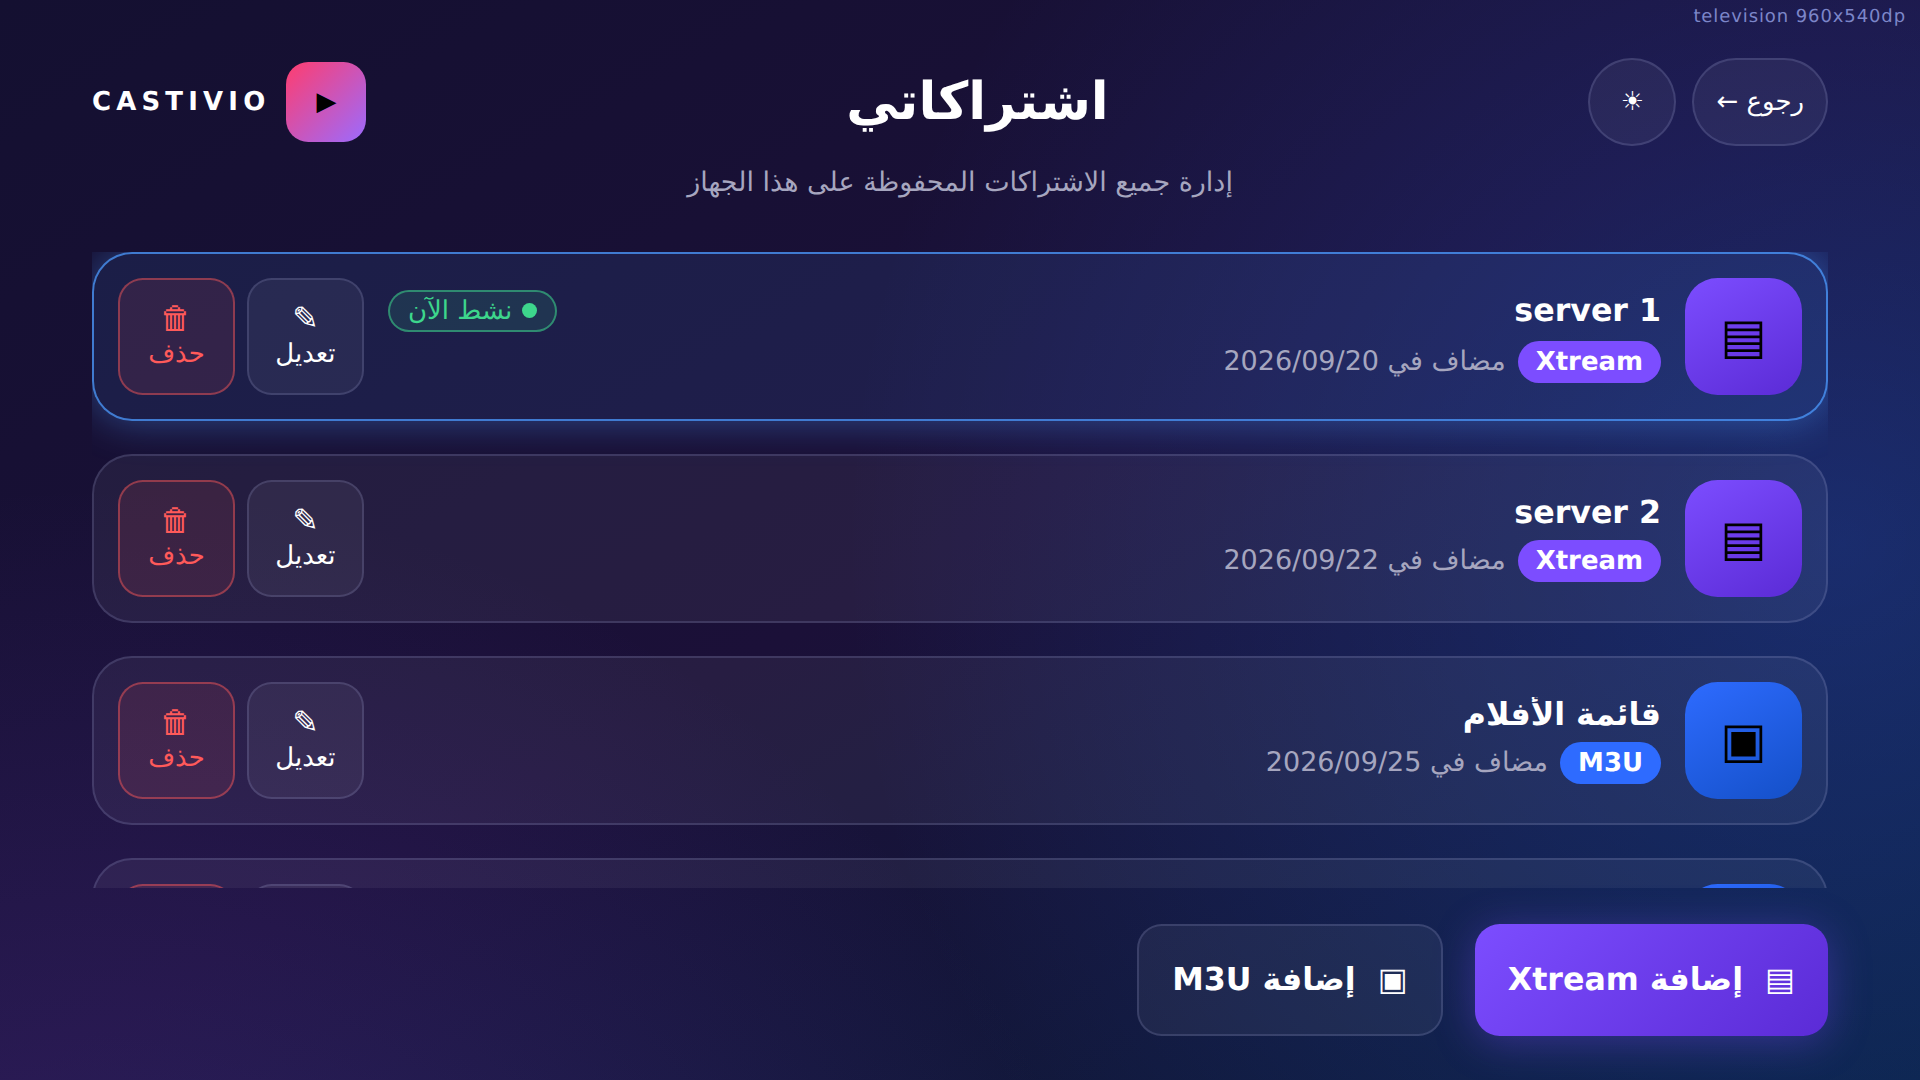
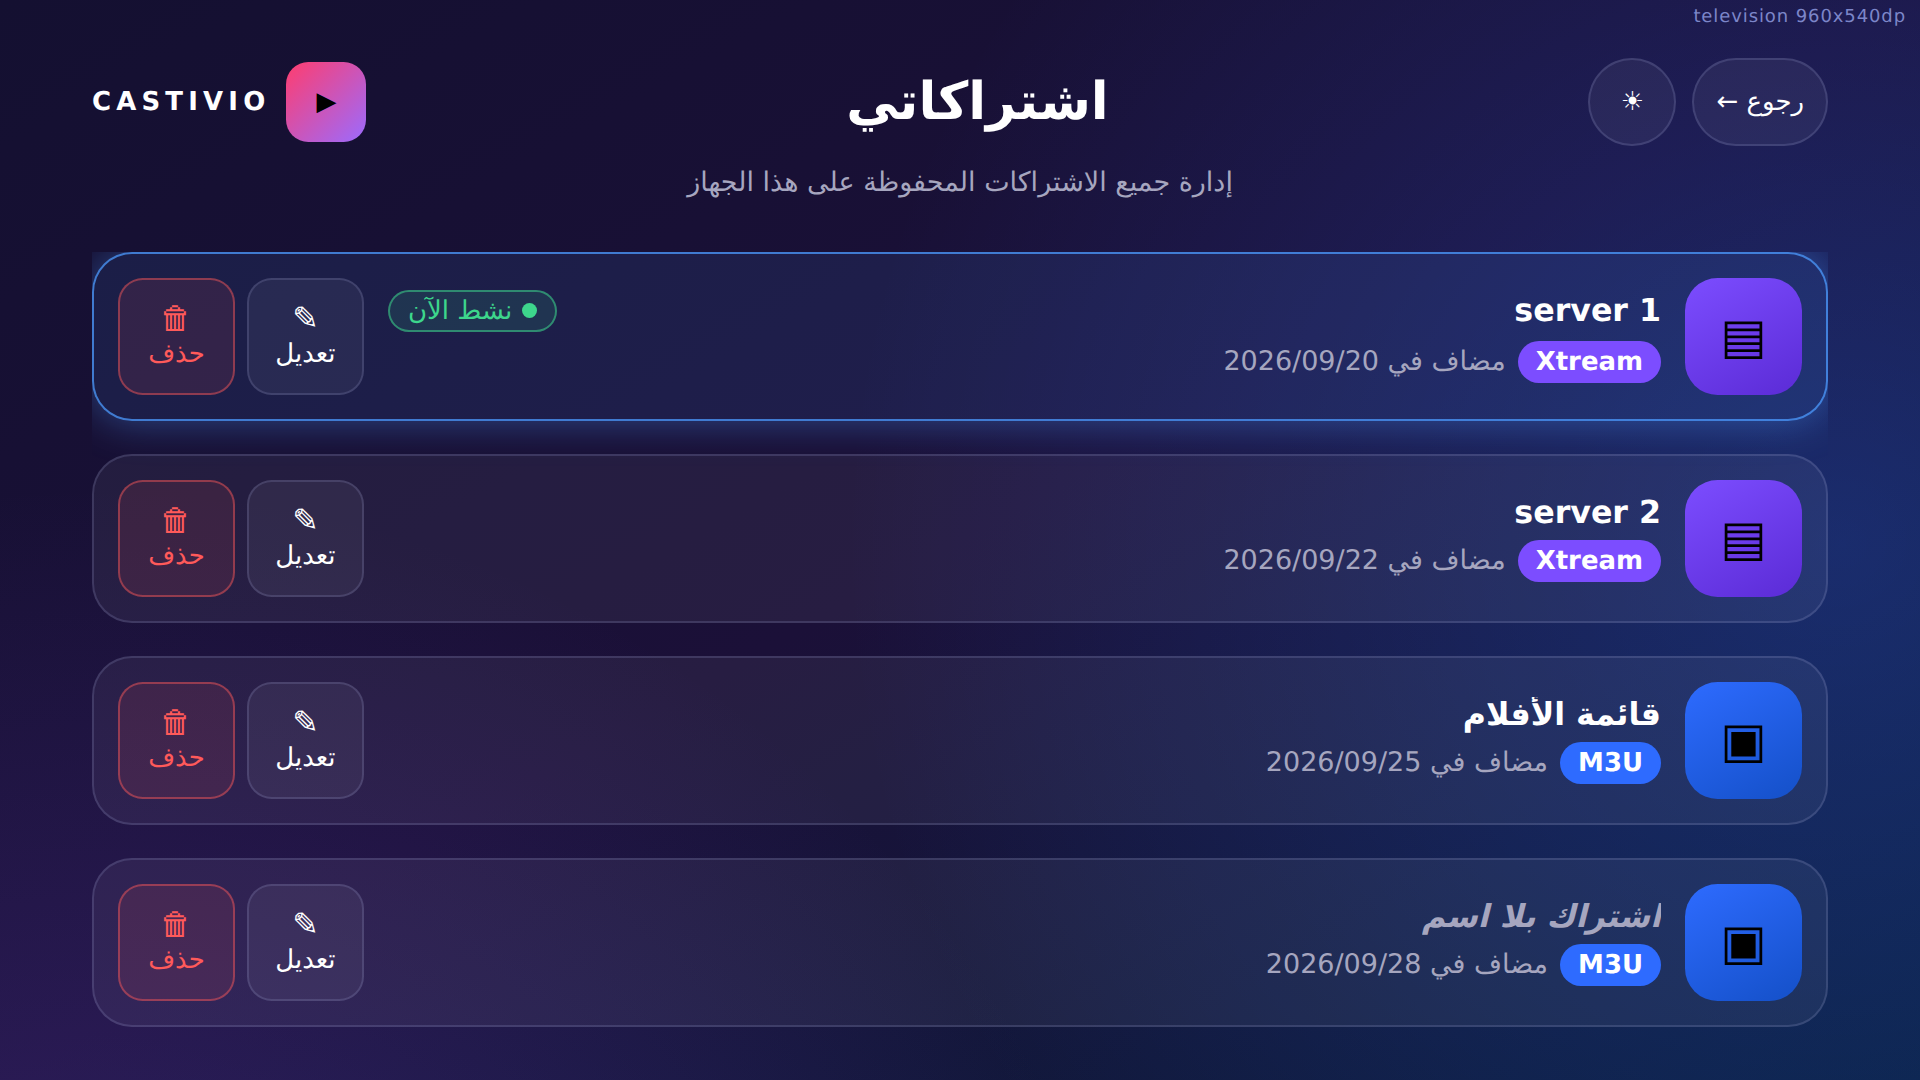
design(activation): the mockups stop drawing a button the screen no longer has
Add Xtream and Add M3U came out of the subscriptions screen in the commit before
this one; the seven assets that depict it still drew them, which makes every one of
them a picture of something that does not exist.

All seven re-rendered from their own frames: the television, the tablet, the
reference phone, the shortest phone, the delete and rename dialogs, and the scrim
comparison sheet. Only the footer row is gone — no token, no spacing and no row
layout moved, so the list simply has the height the two buttons were holding, which
on the phone is where a fourth subscription now appears and shows the list scrolls.

A first attempt at this removed the footer and the Xtream button but left the M3U
button behind. Orphaned, it inherited the row styling above it and rendered as a
full-width subscription at the foot of the list — a picture of a bug that existed
nowhere but in the asset. It was caught in its own render, reverted before anything
was committed, and the removal is matched on the whole block here rather than on
the lines inside it.

Claude-Session: https://claude.ai/code/session_011AJmBREqNiH8exQNKLcMCr

Changed region(s): [[0.5938, 0.825, 0.9688, 0.9778], [0.0625, 0.825, 0.1875, 0.9472]]

diff --git a/design/mockups/saved-sources-scrim.html b/design/mockups/saved-sources-scrim.html
@@ -117,7 +117,6 @@ body{background:#07060f;padding:14px;display:flex;flex-direction:column;gap:14px
         <div class="r2"><span class="k kM">M3U</span><span>مضاف في 2026/09/25</span></div></div>
         <div class="acts"><div class="act"><span class="ag">✎</span>تعديل</div><div class="act del"><span class="ag">🗑</span>حذف</div></div></div>
     </div>
-    <div class="foot"><div class="fbtn b1">▤&nbsp; إضافة Xtream</div><div class="fbtn b2">▣&nbsp; إضافة M3U</div></div>
     </div></div>
   </div>
   <div class="scrim s70"></div>
@@ -150,7 +149,6 @@ body{background:#07060f;padding:14px;display:flex;flex-direction:column;gap:14px
         <div class="r2"><span class="k kM">M3U</span><span>مضاف في 2026/09/25</span></div></div>
         <div class="acts"><div class="act"><span class="ag">✎</span>تعديل</div><div class="act del"><span class="ag">🗑</span>حذف</div></div></div>
     </div>
-    <div class="foot"><div class="fbtn b1">▤&nbsp; إضافة Xtream</div><div class="fbtn b2">▣&nbsp; إضافة M3U</div></div>
     </div></div>
   </div>
   <div class="scrim s45"></div>
@@ -183,7 +181,6 @@ body{background:#07060f;padding:14px;display:flex;flex-direction:column;gap:14px
         <div class="r2"><span class="k kM">M3U</span><span>مضاف في 2026/09/25</span></div></div>
         <div class="acts"><div class="act"><span class="ag">✎</span>تعديل</div><div class="act del"><span class="ag">🗑</span>حذف</div></div></div>
     </div>
-    <div class="foot"><div class="fbtn b1">▤&nbsp; إضافة Xtream</div><div class="fbtn b2">▣&nbsp; إضافة M3U</div></div>
     </div></div>
   </div>
   <div class="scrim s30"></div>

diff --git a/design/mockups/saved-sources-dialog.html b/design/mockups/saved-sources-dialog.html
@@ -164,10 +164,6 @@ body{background:#000}
           </div>
         </div>
         </div>
-        <div class="foot">
-          <div class="btn b1">▤&nbsp; إضافة Xtream</div>
-          <div class="btn b2">▣&nbsp; إضافة M3U</div>
-        </div>
       </div>
     </div>
   </div>

diff --git a/design/mockups/saved-sources-phone.html b/design/mockups/saved-sources-phone.html
@@ -164,10 +164,6 @@ body{background:#000}
           </div>
         </div>
         </div>
-        <div class="foot">
-          <div class="btn b1">▤&nbsp; إضافة Xtream</div>
-          <div class="btn b2">▣&nbsp; إضافة M3U</div>
-        </div>
       </div>
     </div>
   </div>

diff --git a/design/mockups/saved-sources-rename.html b/design/mockups/saved-sources-rename.html
@@ -164,10 +164,6 @@ body{background:#000}
           </div>
         </div>
         </div>
-        <div class="foot">
-          <div class="btn b1">▤&nbsp; إضافة Xtream</div>
-          <div class="btn b2">▣&nbsp; إضافة M3U</div>
-        </div>
       </div>
     </div>
   </div>

diff --git a/design/mockups/saved-sources-short.html b/design/mockups/saved-sources-short.html
@@ -164,10 +164,6 @@ body{background:#000}
           </div>
         </div>
         </div>
-        <div class="foot">
-          <div class="btn b1">▤&nbsp; إضافة Xtream</div>
-          <div class="btn b2">▣&nbsp; إضافة M3U</div>
-        </div>
       </div>
     </div>
   </div>

diff --git a/design/mockups/saved-sources-tablet.html b/design/mockups/saved-sources-tablet.html
@@ -164,10 +164,6 @@ body{background:#000}
           </div>
         </div>
         </div>
-        <div class="foot">
-          <div class="btn b1">▤&nbsp; إضافة Xtream</div>
-          <div class="btn b2">▣&nbsp; إضافة M3U</div>
-        </div>
       </div>
     </div>
   </div>

diff --git a/design/mockups/saved-sources-tv.html b/design/mockups/saved-sources-tv.html
@@ -164,10 +164,6 @@ body{background:#000}
           </div>
         </div>
         </div>
-        <div class="foot">
-          <div class="btn b1">▤&nbsp; إضافة Xtream</div>
-          <div class="btn b2">▣&nbsp; إضافة M3U</div>
-        </div>
       </div>
     </div>
   </div>
